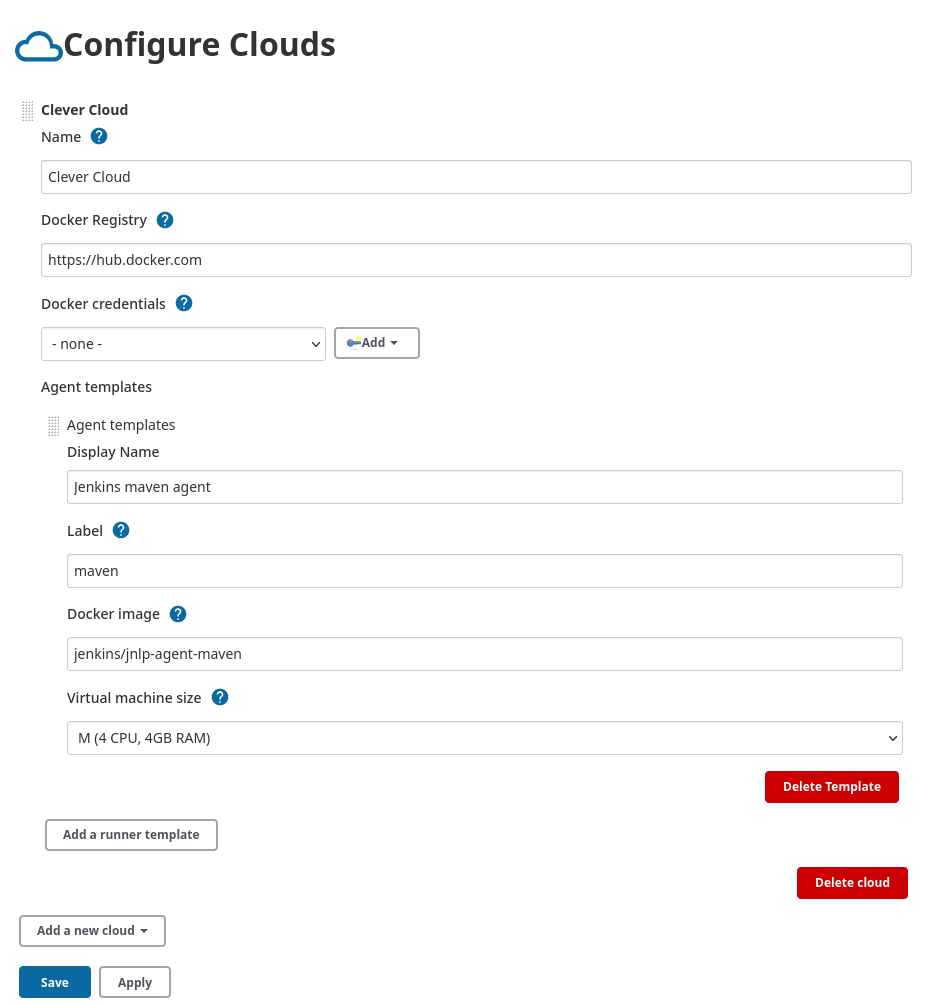
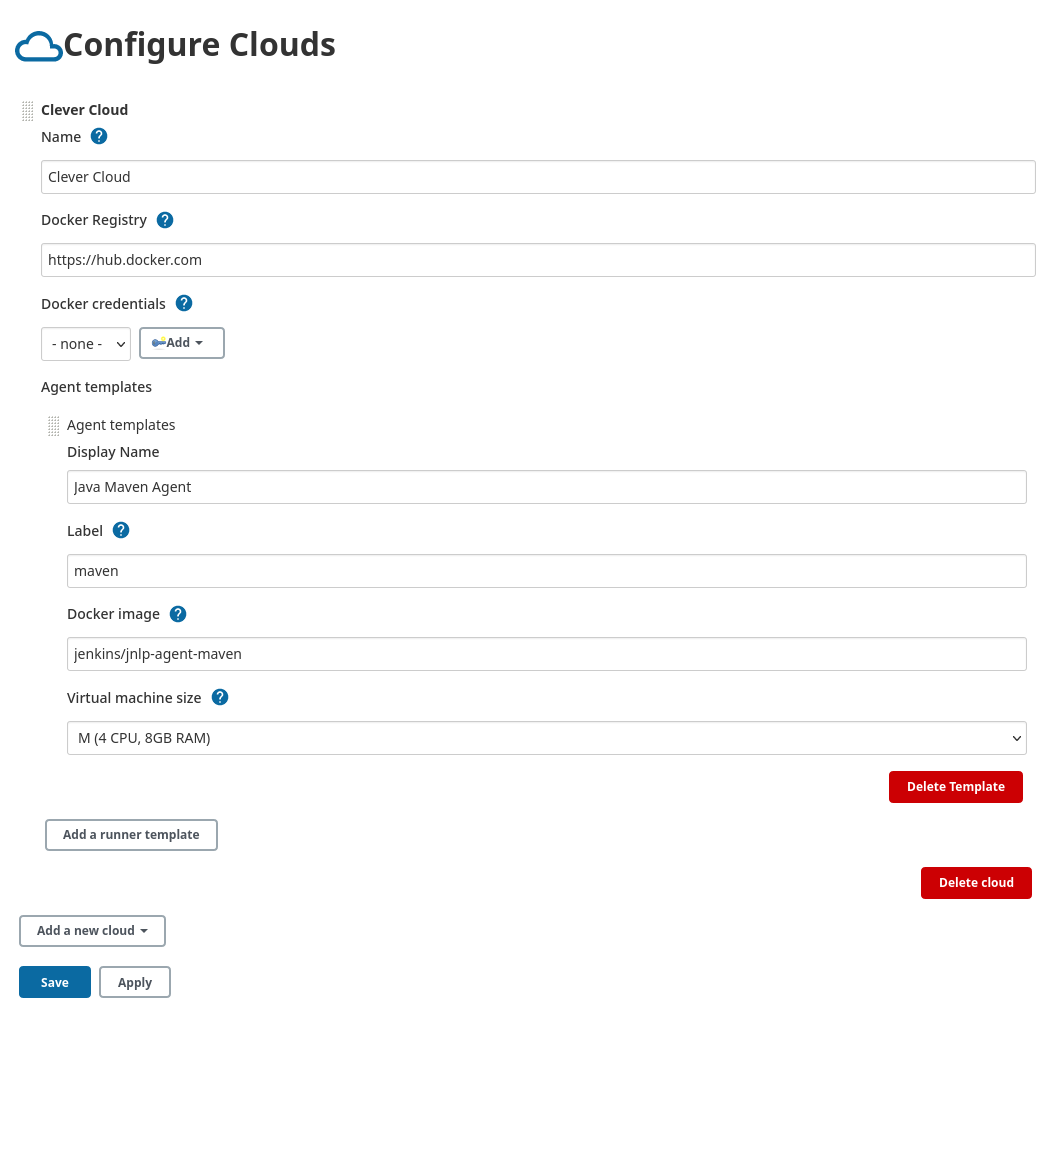
Update Jenkins

diff --git a/deploy/addon/jenkins.md b/deploy/addon/jenkins.md
@@ -82,7 +82,7 @@ Let's configure a runner template for Java Maven projects:
 - Name your runner template, for example `Jenkins maven agent`.
 - Set `maven` as the label. Jobs that require a `maven` runner will then be able to execute on this runner.
 - Set the docker image your jobs will use. For example `jenkins/jnlp-agent-maven`. Be sure to read the [section about Docker image requiremetns](#docker-image-requirements).
-- Select the virtual machine size you need. For Java projects, let's use a M instance that has 4 vCPU and 4GB of RAM.
+- Select the virtual machine size you need. For Java projects, let's use a M instance that has 4 vCPUs and 8 GiB of RAM.
 
 {{< image "/images/jenkins/cloud-configuration.png" "Jenkins Cloud configuration" >}}
 
@@ -155,6 +155,67 @@ Once your job has ended, after the 1 minute sleep, the application provisionned 
 
 You should now be able to start creating jobs that automatically build and test your projects on a Clever Cloud application.
 
+### Jenkins File example
+
+Here is an example of a Jenkins file taken from our [CLI repository](https://github.com/CleverCloud/clever-tools/blob/master/Jenkinsfile). It should
+be at the root directory of your project for Jenkins to pick it up. It basically builds our CLI project and publish it to various platforms.
+
+```bash
+pipeline {
+  agent { label 'cc-ci-agent' }
+  environment {
+    GIT_TAG_NAME = gitTagName()
+    S3_KEY_ID = credentials('CELLAR_CC_TOOLS_ACCESS_KEY_ID')
+    S3_SECRET_KEY = credentials('CELLAR_CC_TOOLS_SECRET_ACCESS_KEY')
+    BINTRAY_API_KEY = credentials('BINTRAY_CC_TOOLS_API_KEY')
+    NPM_TOKEN = credentials('NPM_TOKEN')
+  }
+  options {
+    buildDiscarder(logRotator(daysToKeepStr: '5', numToKeepStr: '10', artifactDaysToKeepStr: '5', artifactNumToKeepStr: '10'))
+  }
+  stages {
+    stage('build') {
+      steps {
+        sh 'npm ci'
+        sh 'node scripts/job-build.js'
+      }
+    }
+    stage('publish') {
+      when {
+        not {
+          environment name: 'GIT_TAG_NAME', value: ''
+        }
+        beforeAgent true
+      }
+      parallel {
+        stage('cellar') {
+          steps {
+            sh 'node scripts/job-publish-cellar.js'
+          }
+        }
+        stage('npm') {
+          steps {
+            sh 'node ./scripts/job-publish-npm.js'
+          }
+        }
+      }
+    }
+  }
+  post {
+    always {
+      archiveArtifacts artifacts: 'releases/**/*', fingerprint: true, onlyIfSuccessful: true
+    }
+  }
+}
+
+@NonCPS
+String gitTagName() {
+    return sh(script: 'git describe --tags --exact-match $(git rev-parse HEAD) || true', returnStdout: true)?.trim()
+}
+```
+
+You can find more documentation about the Jenkins file syntax on [Jenkin's Documentation](https://www.jenkins.io/doc/book/pipeline/jenkinsfile/)
+
 ## Customize your Jenkins instance
 
 Jenkins can be customized following your needs with a multitude of plugins. You can go into `Manage Jenkins` and then `Manage plugins` to manage them.
@@ -191,4 +252,67 @@ All plugins will be downloaded. You can enable the option `Restart Jenkins when 
 
 ## Backup
 
-By default, Clever Cloud performs a free backup every day, with a retention of seven days. Retention and frequency can be customized for Premium customers. Each backup can be found in the add-on dashboard in the web console, along with the credentials.
+By default, Clever Cloud performs a backup every day, with a retention of seven days. Retention and frequency can be customized for Premium customers. Backups can be found in the Clever Cloud Console in the `backups` menu of your add-on.
+
+## Plans
+
+### Jenkins Add-on
+
+Those plans correspond to the Jenkins controller instance.
+
+{{< pricingAddon "jenkins" "[\"cpu\", \"memory\", \"disk-size\", \"has-logs\", \"has-metrics\"]" >}}
+
+### Runners
+
+Those plans are the available runners for your jobs.
+
+<table class="table table-bordered table-striped dataTable"><caption>Jenkins Runners</caption>
+<tr>
+<th>Name</th>
+<th>vCPUs</th>
+<th>RAM</th>
+<th>Price (hour)</th>
+</tr>
+<tr>
+<td>XS</td>
+<td>1</td>
+<td>2 GiB</td>
+<td>€0.10</td>
+</tr>
+<tr>
+<td>S</td>
+<td>2</td>
+<td>4 GiB</td>
+<td>€0.25</td>
+</tr>
+<tr>
+<td>M</td>
+<td>4</td>
+<td>8 GiB</td>
+<td>€0.50</td>
+</tr>
+<tr>
+<td>L</td>
+<td>6</td>
+<td>12 GiB</td>
+<td>€0.75</td>
+</tr>
+<tr>
+<td>XL</td>
+<td>8</td>
+<td>16 GiB</td>
+<td>€1.00</td>
+</tr>
+<tr>
+<td>2XL</td>
+<td>12</td>
+<td>24 GiB</td>
+<td>€2.00</td>
+</tr>
+<tr>
+<td>3XL</td>
+<td>16</td>
+<td>32 GiB</td>
+<td>€4.00</td>
+</tr>
+</table>
